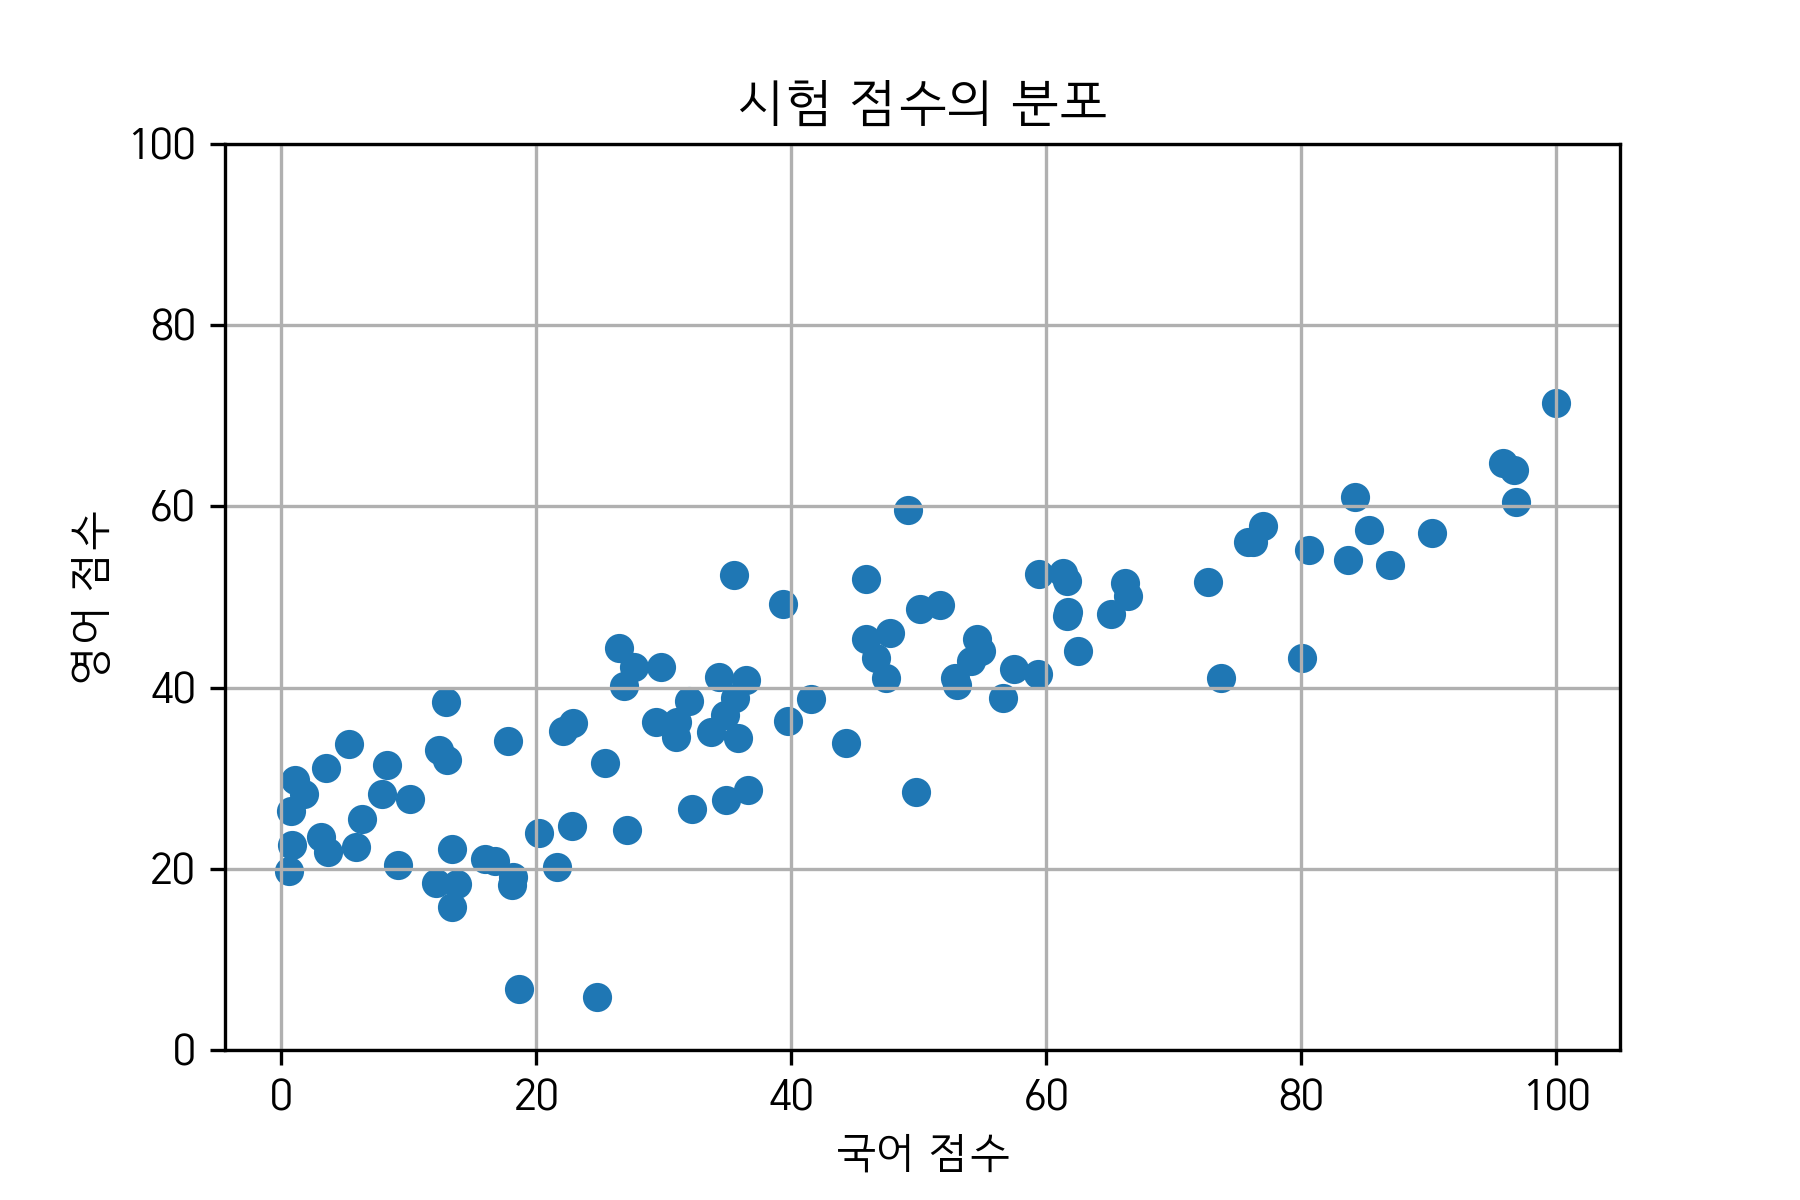
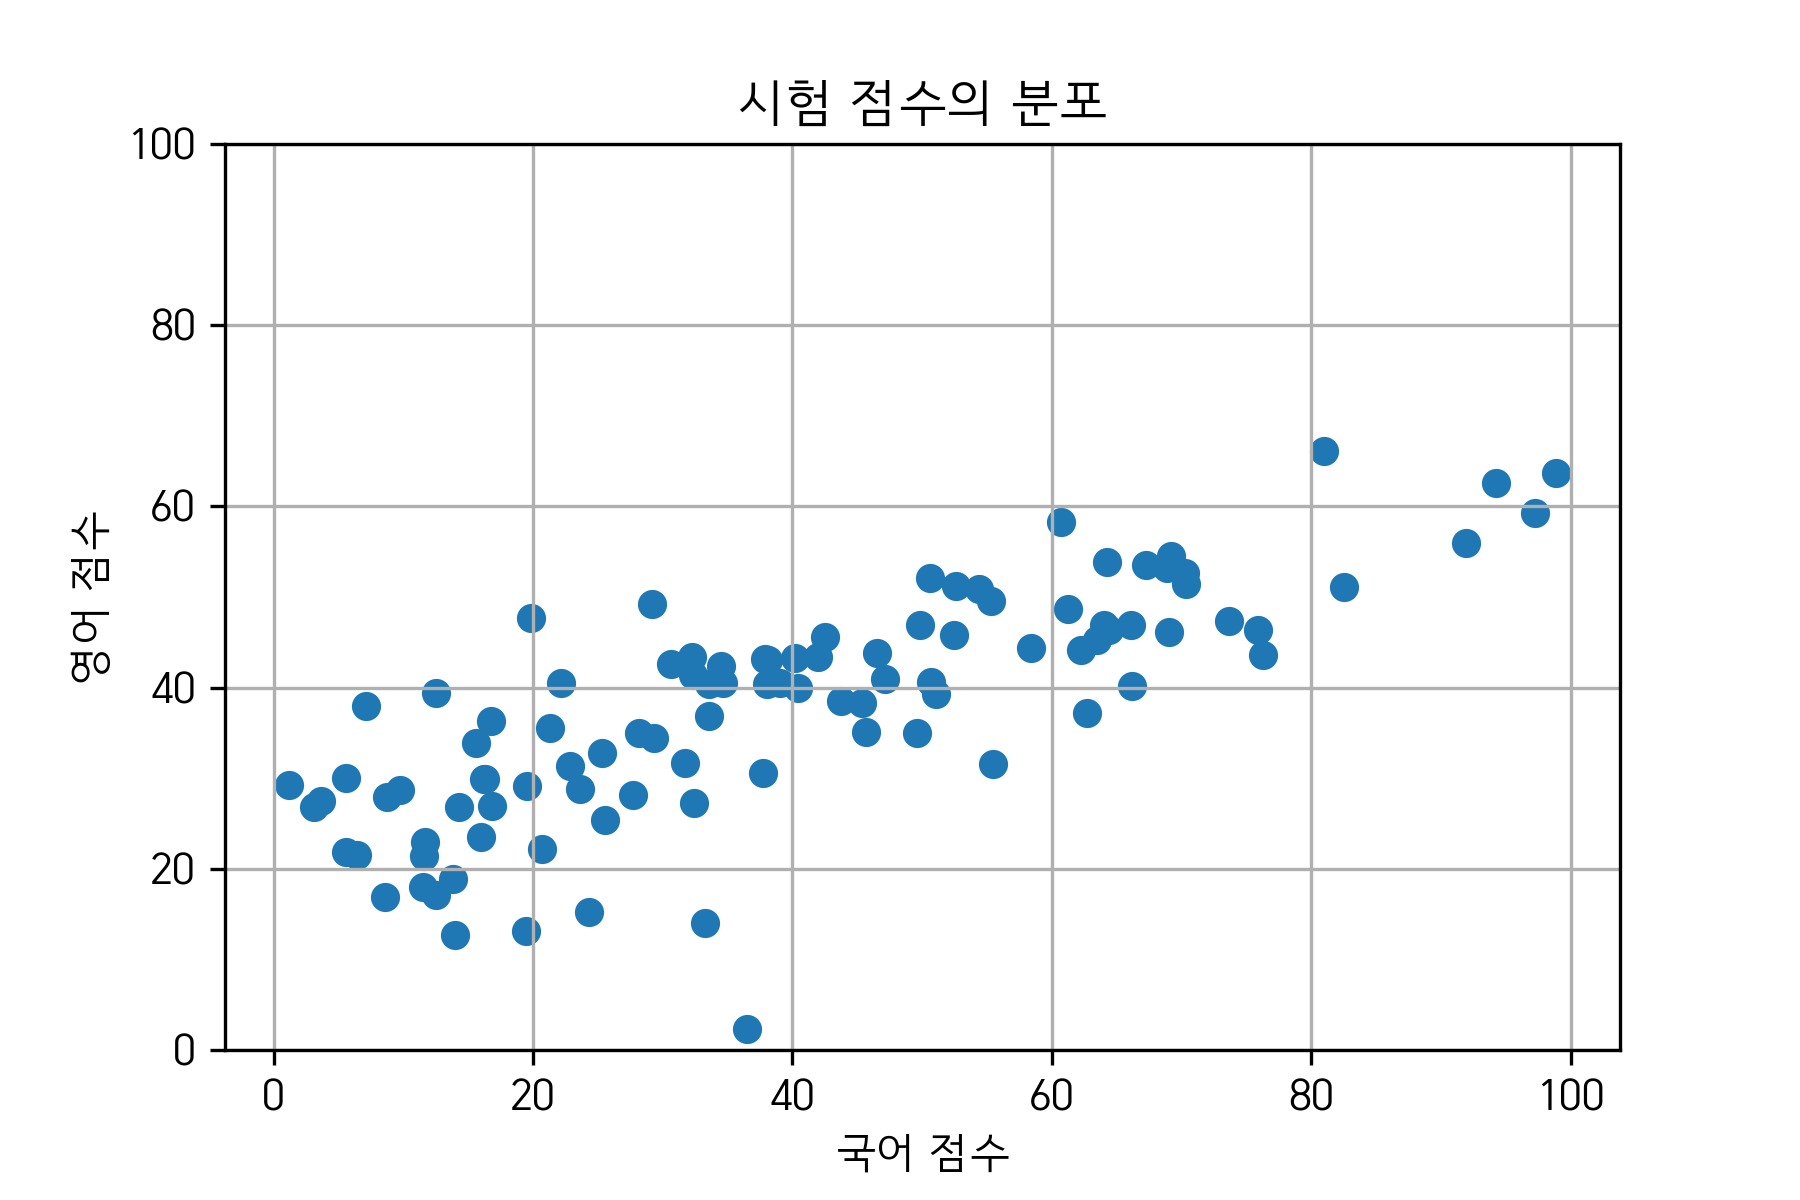
PCA pic2 파란 선 기울기 수정

diff --git a/pics/2019-07-27_PCA/score_dist.py b/pics/2019-07-27_PCA/score_dist.py
@@ -47,7 +47,7 @@ plt.show()
 
 plt.scatter(D[0,:], D[1,:])
 plt.plot([0, 100], [0, 100], 'r--', linewidth = 2)
-plt.plot([0, 100], [0, 100*3/4], 'b-.', linewidth = 2)
+plt.plot([0, 100], [0, 100*4/6], 'b-.', linewidth = 2)
 plt.title('시험 점수의 분포')
 plt.xlabel('국어 점수')
 plt.ylabel('영어 점수')
